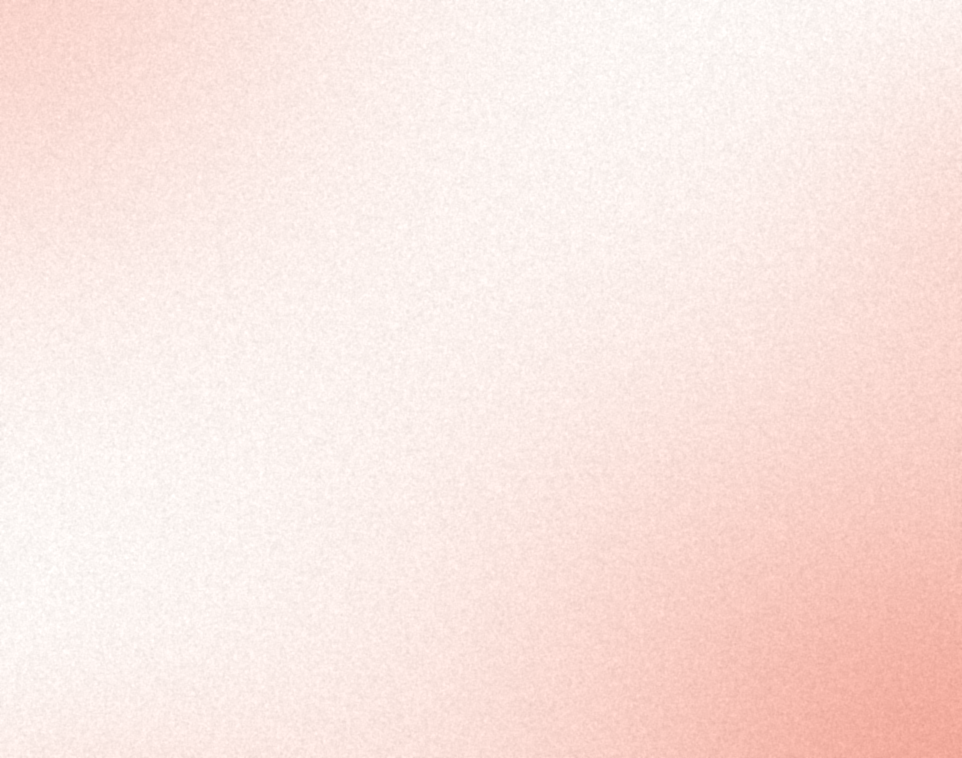
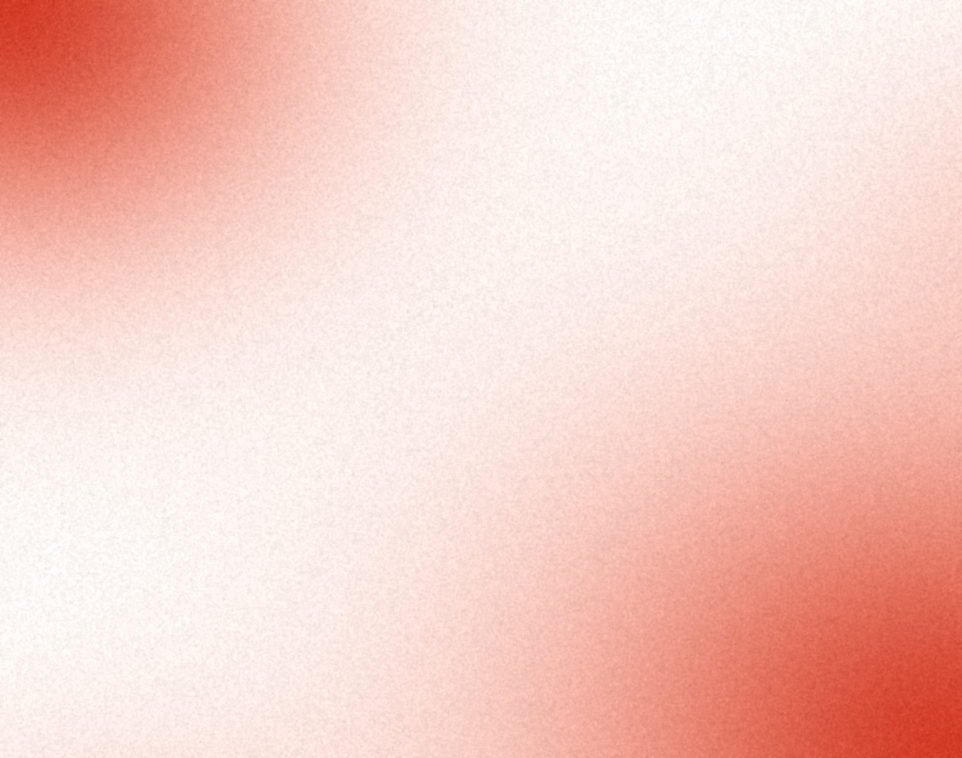
Corner glow: corners reach #D33C27 exactly, white through the middle
Claude-Session: https://claude.ai/code/session_01Lo4DwFPGkBZy1W7n1vwAfb

diff --git a/backgrounds/make_gradients.py b/backgrounds/make_gradients.py
@@ -72,11 +72,11 @@ def render(spots, scale, seed):
 
 
 VARIANTS = {
-    # Light, airy: the red is spread over several soft glows (bottom right,
-    # top left, a touch on the right edge and bottom left) with open white
-    # between them. Strengths are before the RED multiplier.
-    "corner-glow": [(1.05, 1.07, 0.52, 0.56, 0.31), (-0.06, -0.08, 0.42, 0.46, 0.15),
-                    (1.10, 0.30, 0.24, 0.28, 0.09), (0.12, 1.14, 0.30, 0.22, 0.08)],
+    # The red is spread over several soft glows with open white between them.
+    # The bottom-right and top-left corners reach #D33C27 itself (0.67 x RED
+    # caps at full strength). Strengths are before the RED multiplier.
+    "corner-glow": [(1.0, 1.0, 0.43, 0.45, 0.67), (0.0, 0.0, 0.31, 0.33, 0.67),
+                    (1.10, 0.30, 0.22, 0.26, 0.12), (0.12, 1.14, 0.28, 0.20, 0.10)],
     # A gentle diagonal wash, strongest along the bottom edge.
     "diagonal-wash": [(0.85, 1.25, 0.95, 0.65, 0.26), (0.10, 1.10, 0.55, 0.45, 0.14), (0.95, -0.15, 0.35, 0.35, 0.07)],
     # Soft haze hanging from the top, the centre stays clean white.
